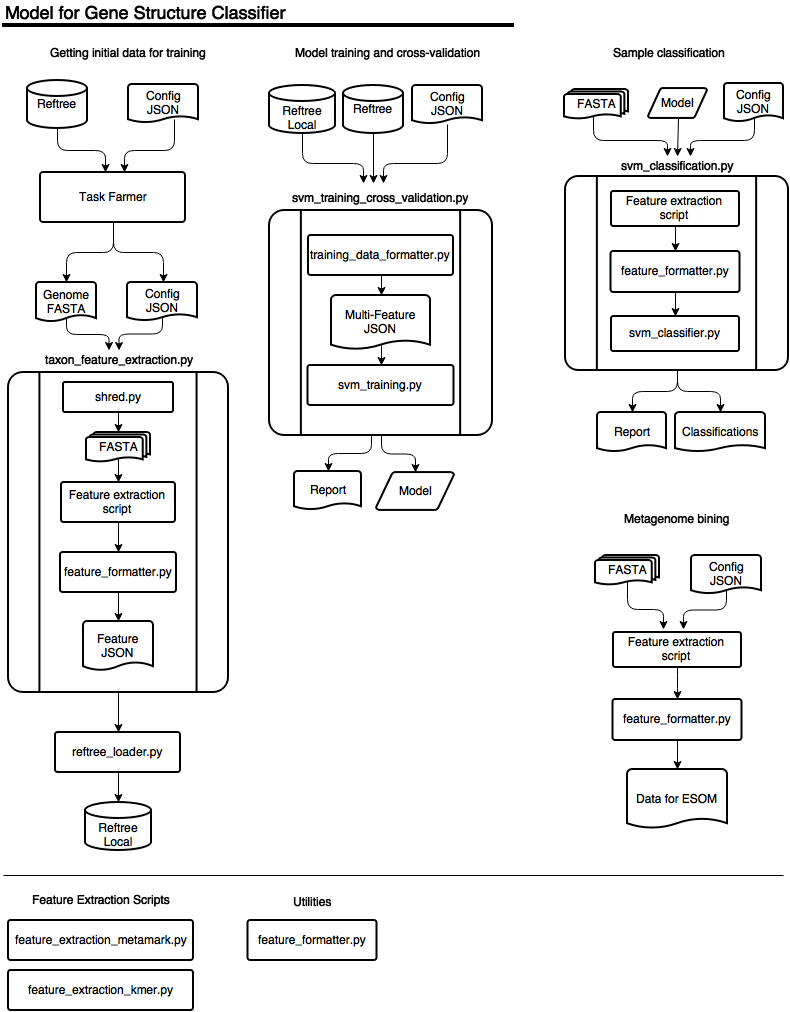
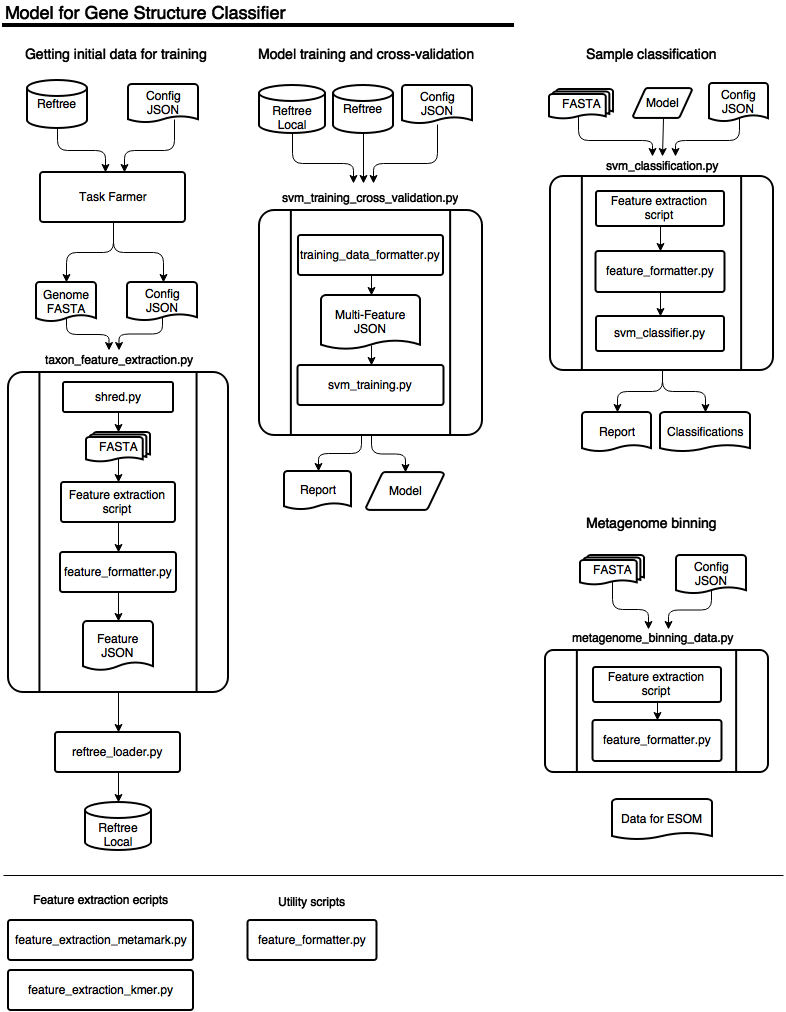
readme updates

diff --git a/Readme.md b/Readme.md
@@ -1,7 +1,6 @@
 
-#Gene Pattern Classifier
-## A program to classify genes and genomes based on the codon transition 
-probabilities calculated from gene calling. 
+#Gene Structure Classifier
+## A program to classify genes and genomes based on the codon transition probabilities calculated from gene calling. 
  
 ##Use cases:
 * Classifying metagenomic and metatransciptomic contigs taxonomically
@@ -10,15 +9,15 @@ probabilities calculated from gene calling.
   divergent forms of life
 
 # Dependencies
-[GenemarkS version 4.29](http://exon.gatech.edu/GeneMark/)
-[RefTree](http://jgi.goe.gov)
-[Python v2.74](https://www.python.org/)
-[Scikit-learn](https://scikits.appspot.com/scikit-learn)
-[Biopython](http://biopython.org)
-[simplejson](https://github.com/simplejson/simplejson)
-[numpy](http://www.numpy.org/)
-[scipy](http://www.scipy.org/)
-[matplotlib](http://matplotlib.org/)
+* [GenemarkS version 4.29](http://exon.gatech.edu/GeneMark/)
+* [RefTree](http://jgi.goe.gov)
+* [Python v2.74](https://www.python.org/)
+* [Scikit-learn](https://scikits.appspot.com/scikit-learn)
+* [Biopython](http://biopython.org)
+* [simplejson](https://github.com/simplejson/simplejson)
+* [numpy](http://www.numpy.org/)
+* [scipy](http://www.scipy.org/)
+* [matplotlib](http://matplotlib.org/)
 
 ## Files
 ###Setup
@@ -42,15 +41,26 @@ probabilities calculated from gene calling.
 	2. svm_training.py - A script to take training data, do a parameter search, create a model and cross-validate it 
 
 ### Sample classification
-* svm classification a wrapper to run SVM classification
+* svm_classification.py - a wrapper to run SVM classification
 	1. feature extraction scripts - see below
 	2. feature_formatter.py - a utility script  to format csv feature data into json data
 	3. svm_classifier.py a script to load a SVM model and classify sequences
-* Feature extraction script
 
-### Feature Extraction Scripts 
+### Producing data for genome binning
+* metagenome_binning_data.py -a a wrapper for producing genome binning data
+	1. Feature extraction script
+	2. feature formatter
+	
+
+### Feature extraction ecripts 
 * feature_extraction_metamark.py - a wrapper to run metamark and extract the genomic feature
 * feature_extraction_kmer.py an alternate method of extracting feature information
+
+### Utility scripts 
+* feature_formatter.py
+
 ## Diagram of program
+
 ![Diagram](GenePatternClassifier.png)
- 	
+
+
